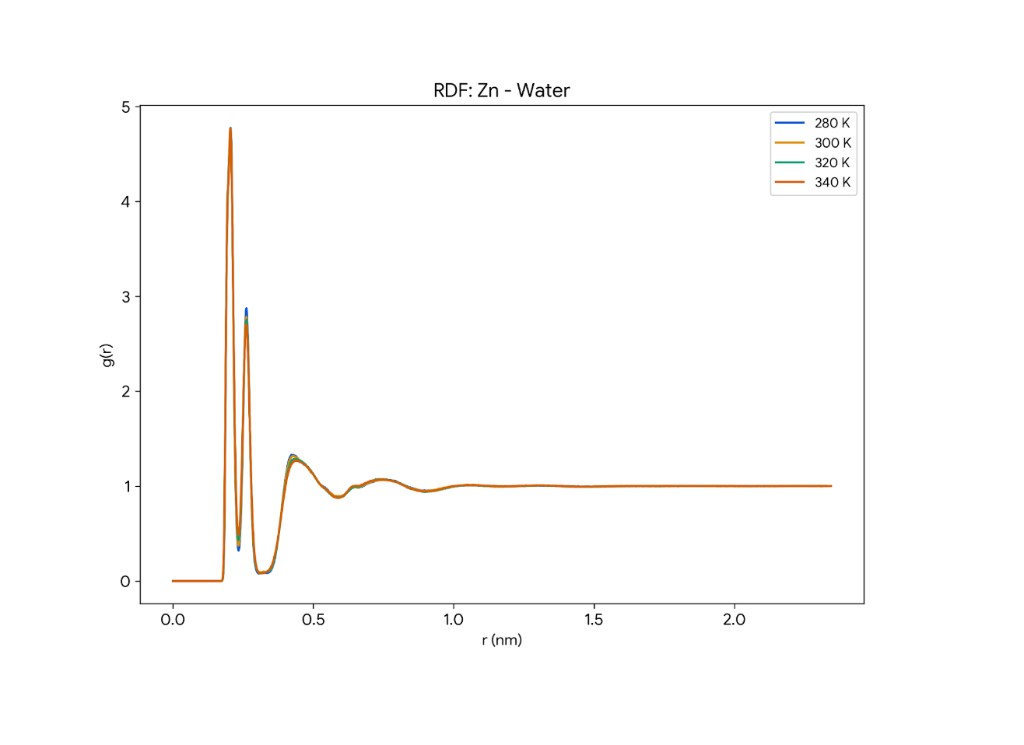
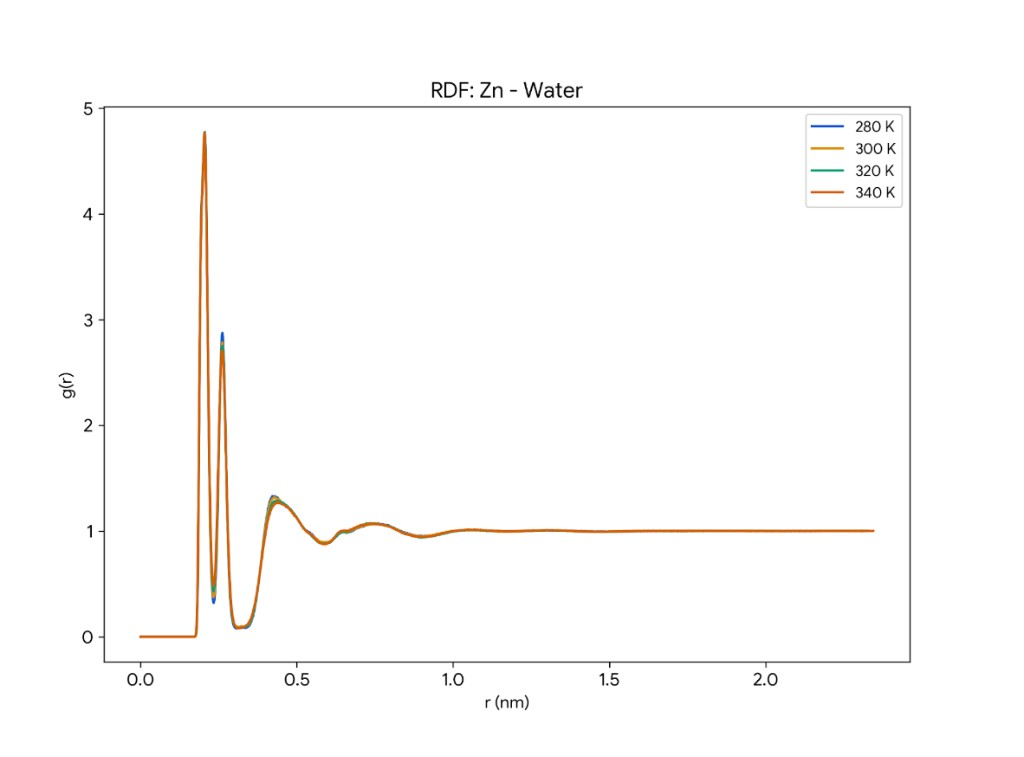
Combine all 4 RDF temperature plots on single slide

diff --git a/app/src/slides.jsx b/app/src/slides.jsx
@@ -652,53 +652,29 @@ export const slides = [
   },
 
   // ──────────────────────────────────────────
-  // — RDF TEMPERATURE COMPARISON (multi-T data)
+  // — RDF TEMPERATURE COMPARISON (all 4 plots on single page)
   // ──────────────────────────────────────────
   {
     type: "body",
-    heading: "RDF Temperature Comparison — Water & Ligand",
+    heading: "RDF Temperature Comparison — 280 to 340 K",
     content: [
       {
         kind: "dualImage",
         images: [
-          { src: "/images/rdf-zn-water-temps.png", caption: "RDF: Zn–Water (280–340 K)" },
-          { src: "/images/rdf-zn-ligand-temps.png", caption: "RDF: Zn–Ligand (280–340 K)" },
+          { src: "/images/rdf-zn-so4-temps.png", caption: "Zn–SO₄: g(r) ≈ 32 at all T" },
+          { src: "/images/rdf-zn-water-temps.png", caption: "Zn–Water: g(r) ≈ 4.7 stable" },
         ],
       },
-      {
-        kind: "callout",
-        text: "Zn–Water RDF: peak at r ≈ 0.2 nm stable across all temperatures (g(r) ≈ 4.7). Zn–Ligand: 280 K shows highest peak (g(r) ≈ 2.0), peaks decrease with temperature — thermal disruption of coordination.",
-      },
-    ],
-  },
-
-  // ──────────────────────────────────────────
-  // — RDF: SO4 & FIRST SHELL PEAK (multi-T data)
-  // ──────────────────────────────────────────
-  {
-    type: "body",
-    heading: "RDF: Sulphate & First Shell Peak — Temperature Dependence",
-    content: [
       {
         kind: "dualImage",
         images: [
-          { src: "/images/rdf-zn-so4-temps.png", caption: "RDF: Zn–SO₄ (280–340 K)" },
-          { src: "/images/rdf-coordination-shell-temps.png", caption: "First Coordination Shell Peak Variation" },
-        ],
-      },
-      {
-        kind: "table",
-        headers: ["Temp (K)", "Ligand Peak g(r)", "SO₄ Peak g(r)", "Coordination Trend"],
-        rows: [
-          ["280", "2.0", "32", "Strongest coordination — low thermal energy"],
-          ["300", "0.9", "32", "Standard reference — solvation shell stable"],
-          ["320", "0.7", "31", "Moderate disruption — thermal broadening"],
-          ["340", "0.9", "31", "Partial recovery — complex restructuring"],
+          { src: "/images/rdf-zn-ligand-temps.png", caption: "Zn–Ligand: 280 K peak (g(r) ≈ 2.0)" },
+          { src: "/images/rdf-coordination-shell-temps.png", caption: "First Shell Peak Variation" },
         ],
       },
       {
         kind: "callout",
-        text: "280 K shows strongest Zn–Ligand coordination (g(r) ≈ 2.0 vs ≈ 0.9 at higher T). SO₄ dominance is stable across all temperatures. First shell peak variation confirms temperature-dependent solvation shell restructuring.",
+        text: "SO₄ & Water coordination stable across T. Ligand coordination strongest at 280 K (g(r) ≈ 2.0) — thermal disruption at higher T.",
       },
     ],
   },